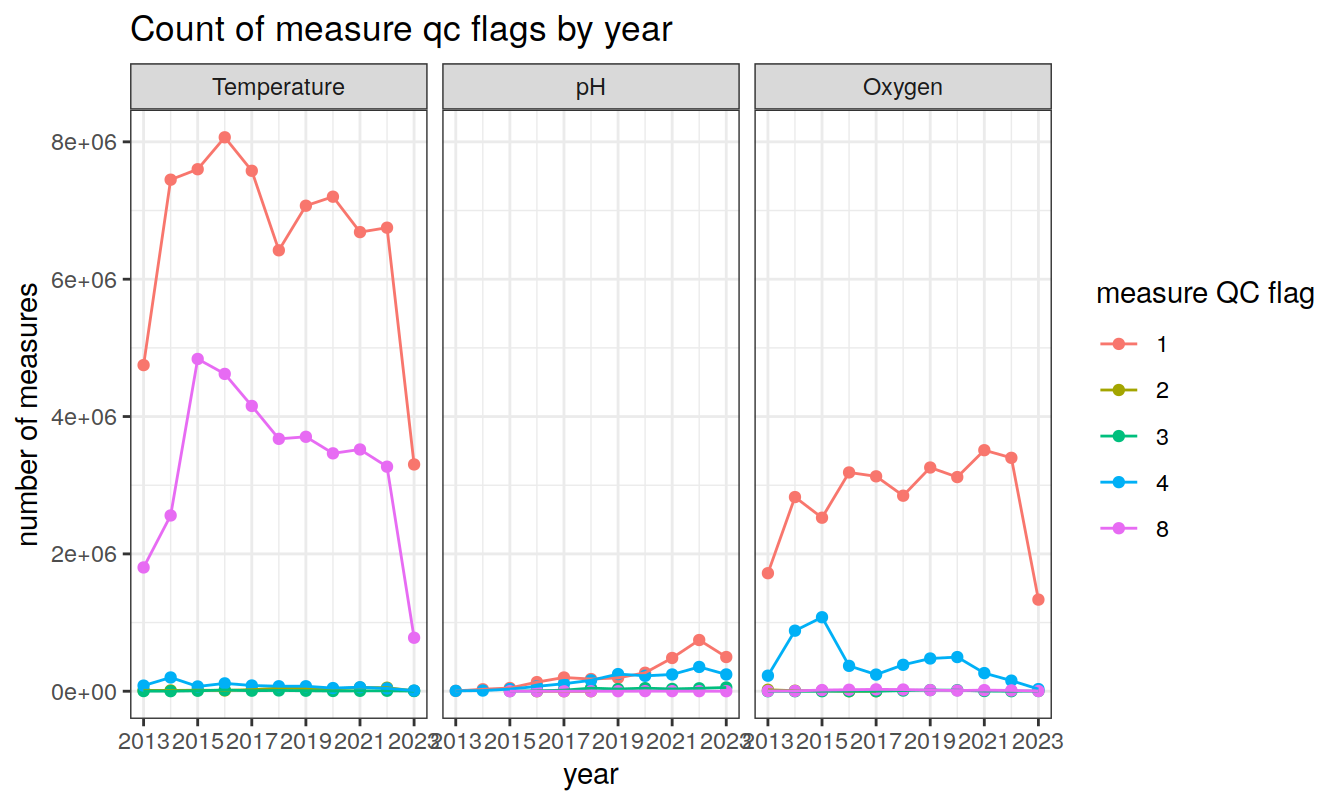
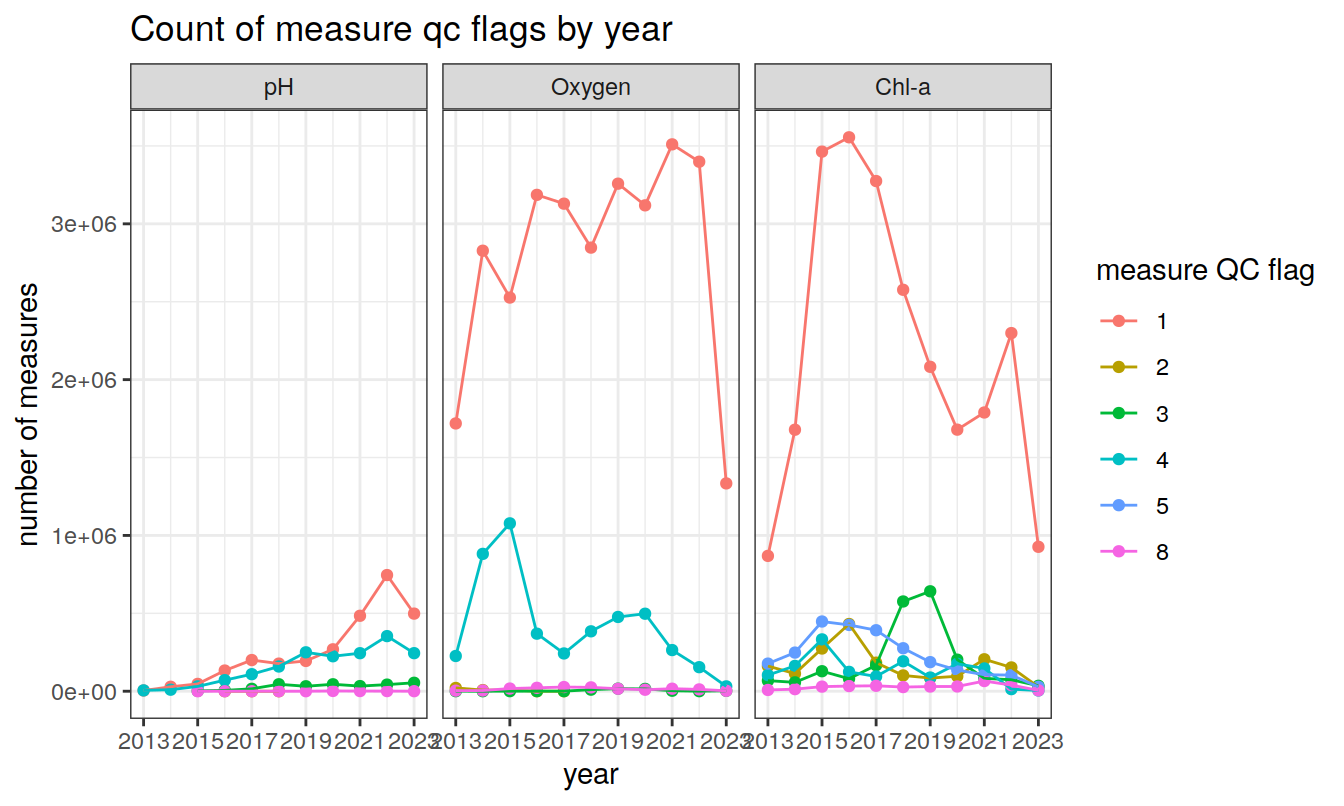
Build site.

diff --git a/docs/load_argo.html b/docs/load_argo.html
@@ -467,7 +467,7 @@ div.tocify {
 <h1 class="title toc-ignore">Load BGC-Argo Data</h1>
 <h4 class="author">David Stappard, Pasqualina Vonlanthen &amp; Jens
 Daniel Müller</h4>
-<h4 class="date">27 October, 2023</h4>
+<h4 class="date">04 November, 2023</h4>
 
 </div>
 
@@ -496,7 +496,7 @@ class="glyphicon glyphicon-ok text-success" aria-hidden="true"></span>
 <div class="tab-content">
 <div id="summary" class="tab-pane fade in active">
 <p>
-<strong>Last updated:</strong> 2023-10-27
+<strong>Last updated:</strong> 2023-11-04
 </p>
 <p>
 <strong>Checks:</strong> <span
@@ -627,15 +627,15 @@ project makes it easier to run your code on other machines.</p>
 <div class="panel panel-default">
 <div class="panel-heading">
 <p class="panel-title">
-<a data-toggle="collapse" data-parent="#workflowr-checks" href="#strongRepositoryversionstrongahrefhttpsgithubcomjensdanielmuellerbgcargorargodatatree8fac6bbbe1f139c134af08cf1309a8bd4dff4602targetblank8fac6bba">
+<a data-toggle="collapse" data-parent="#workflowr-checks" href="#strongRepositoryversionstrongahrefhttpsgithubcomjensdanielmuellerbgcargorargodatatree6780853193ab2e04b13bbbce6a0f734ddbddb095targetblank6780853a">
 <span class="glyphicon glyphicon-ok text-success"
 aria-hidden="true"></span> <strong>Repository version:</strong>
-<a href="https://github.com/jens-daniel-mueller/bgc_argo_r_argodata/tree/8fac6bbbe1f139c134af08cf1309a8bd4dff4602" target="_blank">8fac6bb</a>
+<a href="https://github.com/jens-daniel-mueller/bgc_argo_r_argodata/tree/6780853193ab2e04b13bbbce6a0f734ddbddb095" target="_blank">6780853</a>
 </a>
 </p>
 </div>
 <div
[2 lines of base64/hex data omitted]
 class="panel-collapse collapse">
 <div class="panel-body">
 <p>
@@ -645,7 +645,7 @@ reproducibility.
 </p>
 <p>
 The results in this page were generated with repository version
-<a href="https://github.com/jens-daniel-mueller/bgc_argo_r_argodata/tree/8fac6bbbe1f139c134af08cf1309a8bd4dff4602" target="_blank">8fac6bb</a>.
+<a href="https://github.com/jens-daniel-mueller/bgc_argo_r_argodata/tree/6780853193ab2e04b13bbbce6a0f734ddbddb095" target="_blank">6780853</a>.
 See the <em>Past versions</em> tab to see a history of the changes made
 to the R Markdown and HTML files.
 </p>
@@ -664,14 +664,7 @@ Ignored files:
     Ignored:    .Rproj.user/
     Ignored:    output/
 
-Untracked files:
-    Untracked:  code/pH_align_climatology.Rmd
-    Untracked:  code/temp_align_climatology.Rmd
-
 Unstaged changes:
-    Modified:   analysis/load_argo_clim_pH_ucsd.Rmd
-    Modified:   code/Workflowr_project_managment.R
-    Modified:   code/start_background_job.R
     Modified:   code/start_background_job_bgc_load.R
 
 </code></pre>
@@ -718,6 +711,40 @@ Message
 </tr>
 </thead>
 <tbody>
+<tr>
+<td>
+Rmd
+</td>
+<td>
+<a href="https://github.com/jens-daniel-mueller/bgc_argo_r_argodata/blob/6780853193ab2e04b13bbbce6a0f734ddbddb095/analysis/load_argo.Rmd" target="_blank">6780853</a>
+</td>
+<td>
+ds2n19
+</td>
+<td>
+2023-11-04
+</td>
+<td>
+Addition of Chl-a to dataset.
+</td>
+</tr>
+<tr>
+<td>
+html
+</td>
+<td>
+<a href="https://rawcdn.githack.com/jens-daniel-mueller/bgc_argo_r_argodata/093c4f3d0d8deda91f9fae056875abff8b639934/docs/load_argo.html" target="_blank">093c4f3</a>
+</td>
+<td>
+ds2n19
+</td>
+<td>
+2023-10-27
+</td>
+<td>
+Build site.
+</td>
+</tr>
 <tr>
 <td>
 Rmd
@@ -1143,7 +1170,7 @@ data and metadata</p>
         bgc_index &lt;- argo_global_synthetic_prof() %&gt;% 
           argo_filter_data_mode(data_mode = &#39;delayed&#39;) %&gt;% 
           argo_filter_date(date_min = paste0(opt_max_year, &quot;-01-01&quot;),
-                           date_max = paste0(opt_max_year, &quot;-01-10&quot;))
+                           date_max = paste0(opt_max_year, &quot;-01-31&quot;))
       } else {
         bgc_index &lt;- argo_global_synthetic_prof() %&gt;% 
           argo_filter_data_mode(data_mode = &#39;delayed&#39;) %&gt;% 
@@ -1181,7 +1208,10 @@ take a while)</p>
         &#39;NITRATE_ADJUSTED_ERROR&#39;,
         &#39;PH_IN_SITU_TOTAL_ADJUSTED&#39;,
         &#39;PH_IN_SITU_TOTAL_ADJUSTED_QC&#39;,
-        &#39;PH_IN_SITU_TOTAL_ADJUSTED_ERROR&#39;
+        &#39;PH_IN_SITU_TOTAL_ADJUSTED_ERROR&#39;,
+        &#39;CHLA_ADJUSTED&#39;,
+        &#39;CHLA_ADJUSTED_QC&#39;,
+        &#39;CHLA_ADJUSTED_ERROR&#39;
       ),
     quiet = TRUE
   ) 
@@ -1221,7 +1251,8 @@ take a while)</p>
       profile_psal_qc,
       profile_doxy_qc,
       profile_nitrate_qc,
-      profile_ph_in_situ_total_qc
+      profile_ph_in_situ_total_qc,
+      profile_chla_qc
     )
 
 }</code></pre>
@@ -1284,7 +1315,8 @@ take a while)</p>
       &#39;temp_adjusted_qc&#39;,
       &#39;doxy_adjusted_qc&#39;,
       &#39;nitrate_adjusted_qc&#39;,
-      &#39;ph_in_situ_total_adjusted_qc&#39;
+      &#39;ph_in_situ_total_adjusted_qc&#39;,
+      &#39;chla_adjusted_qc&#39;
             ) %&gt;%
     mutate(year = year(date),
            .after = date)
@@ -1308,6 +1340,10 @@ take a while)</p>
   bgc_measure_summary &lt;- rbind(bgc_measure_summary, bgc_data_qc %&gt;% 
                                  group_by(year, measure_order = 6, measure = &quot;Nitrate&quot;, measure_qc = nitrate_adjusted_qc) %&gt;% 
                                  summarise(count_measure = n()))
+  bgc_measure_summary &lt;- rbind(bgc_measure_summary, bgc_data_qc %&gt;% 
+                                 group_by(year, measure_order = 7, measure = &quot;Chl-a&quot;, measure_qc = chla_adjusted_qc) %&gt;% 
+                                 summarise(count_measure = n()))
+
   rm(bgc_data_qc)
   bgc_measure_summary %&gt;%
     write_rds(file = paste0(path_argo_preprocessed, &quot;/bgc_measure_summary.rds&quot;))
@@ -1498,20 +1534,22 @@ profiles with QC flag A</p>
 <pre class="r"><code># Read metadata file and create profile summary table with a count for each year, measurement type and qc option
 bgc_metadata &lt;-
 read_rds(file = paste0(path_argo_preprocessed, &quot;/bgc_metadata.rds&quot;))
+
 bgc_metadata[&quot;profile_pres_qc&quot;][is.na(bgc_metadata[&quot;profile_pres_qc&quot;])] &lt;- &quot;&quot; 
 bgc_metadata[&quot;profile_temp_qc&quot;][is.na(bgc_metadata[&quot;profile_temp_qc&quot;])] &lt;- &quot;&quot; 
 bgc_metadata[&quot;profile_psal_qc&quot;][is.na(bgc_metadata[&quot;profile_psal_qc&quot;])] &lt;- &quot;&quot; 
 bgc_metadata[&quot;profile_doxy_qc&quot;][is.na(bgc_metadata[&quot;profile_doxy_qc&quot;])] &lt;- &quot;&quot; 
 bgc_metadata[&quot;profile_nitrate_qc&quot;][is.na(bgc_metadata[&quot;profile_nitrate_qc&quot;])] &lt;- &quot;&quot; 
 bgc_metadata[&quot;profile_ph_in_situ_total_qc&quot;][is.na(bgc_metadata[&quot;profile_ph_in_situ_total_qc&quot;])] &lt;- &quot;&quot; 
+bgc_metadata[&quot;profile_chla_qc&quot;][is.na(bgc_metadata[&quot;profile_chla_qc&quot;])] &lt;- &quot;&quot; 
 
 bgc_profile_summary &lt;- bgc_metadata %&gt;% 
-  filter (profile_temp_qc != &quot;&quot;) %&gt;%
+  filter (profile_chla_qc != &quot;&quot;) %&gt;%
   group_by(
     year = format(date, &quot;%Y&quot;), 
-    measure = &quot;Temperature&quot;, 
-    measure_order = 2, 
-    profile_qc = profile_temp_qc
+    measure = &quot;Chl-a&quot;, 
+    measure_order = 7, 
+    profile_qc = profile_chla_qc
     ) %&gt;% 
   summarise(
     count_profiles = n()
@@ -1547,7 +1585,7 @@ bgc_profile_summary &lt;- transform(bgc_profile_summary, year = as.numeric(year)
 
 year_min &lt;- min(bgc_profile_summary$year)
 year_max &lt;- max(bgc_profile_summary$year)
-facet_label &lt;- as_labeller(c(&quot;2&quot;=&quot;Temperature&quot;, &quot;4&quot;=&quot;pH&quot;, &quot;5&quot;=&quot;Oxygen&quot;))
+facet_label &lt;- as_labeller(c(&quot;7&quot;=&quot;Chl-a&quot;, &quot;4&quot;=&quot;pH&quot;, &quot;5&quot;=&quot;Oxygen&quot;))
   
 # draw plots for the separate parameters
 bgc_profile_summary %&gt;%
@@ -1623,7 +1661,7 @@ year_max &lt;- max(bgc_measure_summary$year)
 
 # draw plots for the separate parameters
 bgc_measure_summary %&gt;%
-  filter(measure_qc != &quot; &quot; &amp; measure_order %in% c(2, 4, 5)) %&gt;%
+  filter(measure_qc != &quot; &quot; &amp; measure_order %in% c(7, 4, 5)) %&gt;%
   ggplot(aes(x = year, y = count_measure, col = measure_qc, group=measure_qc)) +
           geom_point() +
           geom_line() +
